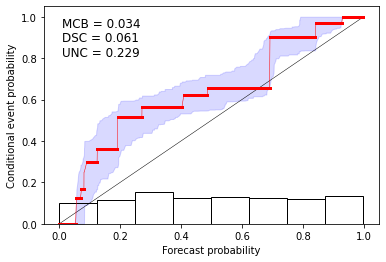
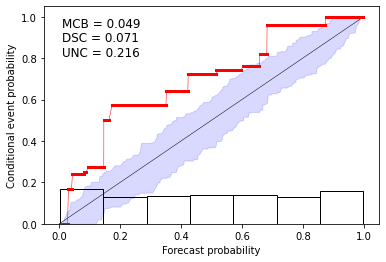
update readme

Changed region(s): [[0.1554, 0.0611, 0.9326, 0.855], [0.3109, 0.0611, 0.3731, 0.2137]]

diff --git a/README.md b/README.md
@@ -37,6 +37,18 @@ reldiag.corp_plot(rel_object)
     
 
 
+
+```python
+rel_object = reliabilitydiag(p1, ybin, region_position = 'estimate')
+reldiag.corp_plot(rel_object)
+```
+
+
+    
+![png](README_files/README_8_0.png)
+    
+
+
 Simulate discrete type of data
 
 
@@ -51,12 +63,33 @@ Compute reliability object and plot output
 
 
 ```python
+import numpy as np
+ybin = np.loadtxt( '/Users/eva/Documents/Work/data/ybin.txt')
+p1 = np.loadtxt('/Users/eva/Documents/Work/data/p1.txt')
+```
+
+
+```python
 rel_object = reliabilitydiag(p1, ybin)
 reldiag.corp_plot(rel_object)
 ```
 
 
     
-![png](README_files/README_11_0.png)
+![png](README_files/README_13_0.png)
     
 
+
+
+```python
+rel_object = reliabilitydiag(p1, ybin, region_position = 'estimate')
+reldiag.corp_plot(rel_object)
+```
+
+
+    
+![png](README_files/README_14_0.png)
+    
+
+
+The End
